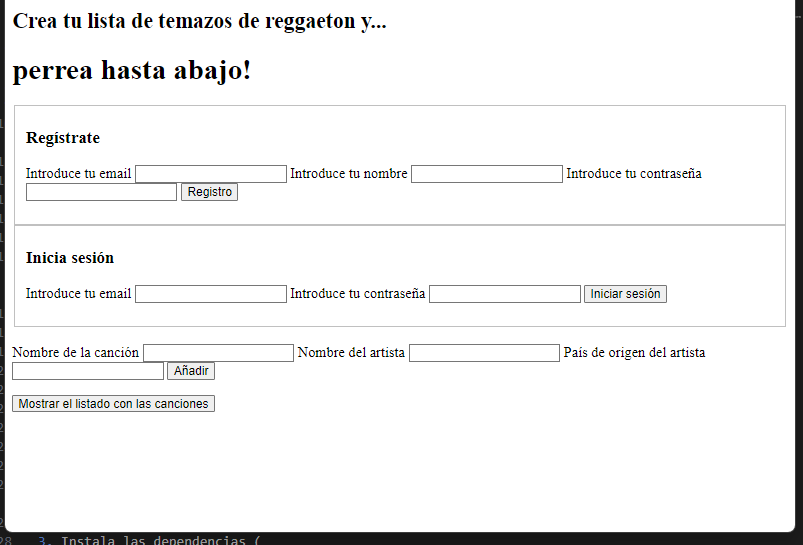
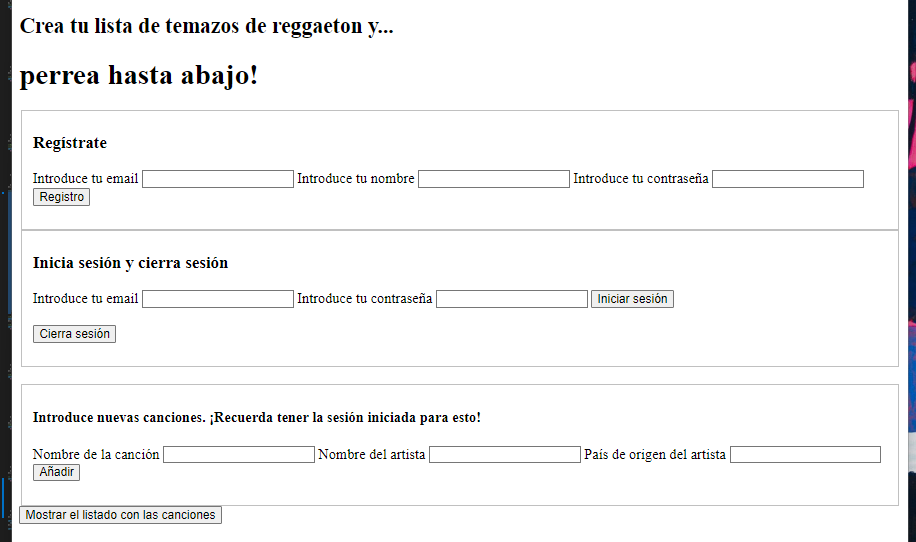
add localStorage and logout

Changed region(s): [[0.0, 0.0, 1.0, 1.0], [0.6227, 0.8266, 0.8095, 0.8561], [0.3425, 0.8266, 0.467, 0.8561]]

diff --git a/public/index.html b/public/index.html
@@ -14,49 +14,107 @@
         <h3>Regístrate</h3>
         <form action="">
           <label for="email">Introduce tu email</label>
-          <input class="js-input-signup-email" type="text" name="email" id="email" />
+          <input
+            class="js-input-signup-email"
+            type="text"
+            name="email"
+            id="email"
+            required
+          />
 
           <label for="name">Introduce tu nombre</label>
-          <input class="js-input-signup-name" type="text" name="name" id="name" />
+          <input
+            class="js-input-signup-name"
+            type="text"
+            name="name"
+            id="name"
+            required
+          />
 
           <label for="pass">Introduce tu contraseña</label>
-          <input class="js-input-signup-pass" type="password" name="pass" id="pass" />
+          <input
+            class="js-input-signup-pass"
+            type="password"
+            name="pass"
+            id="pass"
+            required
+          />
 
-          <input class="js-btn-signup" type="submit" value="Registro">
+          <input class="js-btn-signup" type="submit" value="Registro" />
         </form>
         <p class="js-res-sign"></p>
       </fieldset>
     </section>
     <section>
       <fieldset>
-        <h3>Inicia sesión</h3>
+        <h3>Inicia sesión y cierra sesión</h3>
         <form action="">
           <label for="emaillogin">Introduce tu email</label>
-          <input class="js-input-login-email" type="text" name="emaillogin" id="emaillogin" />
+          <input
+            class="js-input-login-email"
+            type="text"
+            name="emaillogin"
+            id="emaillogin"
+            required
+          />
 
           <label for="passlogin">Introduce tu contraseña</label>
-          <input class="js-input-login-pass" type="passwordlogin" name="passlogin" id="passlogin" />
+          <input
+            class="js-input-login-pass"
+            type="password"
+            name="passlogin"
+            id="passlogin"
+            required
+          />
 
-          <input class="js-btn-login" type="submit" value="Iniciar sesión">
+          <input class="js-btn-login" type="submit" value="Iniciar sesión" />
         </form>
+        <br>
+        <button class="js-btn-logout" >Cierra sesión</button>
         <p class="js-res-login"></p>
+        <p class="js-res-logout"></p>
       </fieldset>
     </section>
     <br />
-    <form action="">
-      <label for="song">Nombre de la canción</label>
-      <input class="js-input-song" type="text" name="song" id="song" />
 
-      <label for="artist">Nombre del artista</label>
-      <input class="js-input-artist" type="text" name="artist" id="artist" />
 
-      <label for="country">País de origen del artista</label>
-      <input class="js-input-country" type="text" name="country" id="country" />
 
-      <input class="js-btn-add" type="submit" value="Añadir" />
-    </form>
-    <p class="js-res-add"></p>
+    <fieldset>
+      <h4>
+        Introduce nuevas canciones. ¡Recuerda tener la sesión iniciada para
+        esto!
+      </h4>
+      <form action="">
+        <label for="song">Nombre de la canción</label>
+        <input
+          class="js-input-song"
+          type="text"
+          name="song"
+          id="song"
+          required
+        />
 
+        <label for="artist">Nombre del artista</label>
+        <input
+          class="js-input-artist"
+          type="text"
+          name="artist"
+          id="artist"
+          required
+        />
+
+        <label for="country">País de origen del artista</label>
+        <input
+          class="js-input-country"
+          type="text"
+          name="country"
+          id="country"
+        />
+
+        <input class="js-btn-add" type="submit" value="Añadir" />
+      </form>
+      <p class="js-res-add"></p>
+    </fieldset>
     <button class="btn-show-all">Mostrar el listado con las canciones</button>
     <div class="js-items"></div>
 

diff --git a/public/js/main.js b/public/js/main.js
@@ -16,6 +16,8 @@ const emailLogin = document.querySelector(".js-input-login-email");
 const passLogin = document.querySelector(".js-input-login-pass");
 const btnLogin = document.querySelector(".js-btn-login");
 const confLogin = document.querySelector(".js-res-login");
+const btnLogout = document.querySelector(".js-btn-logout");
+const confLogout = document.querySelector(".js-res-logout");
 
 let token = "";
 //registro y login
@@ -71,9 +73,11 @@ const handleLogin = (ev) => {
       if (data.success) {
         confLogin.innerHTML = "Bienvenida de nuevo <3";
         token = data.token;
+        localStorage.setItem("token", token);
         emailLogin.value = "";
         passLogin.value = "";
-        console.log(token);
+     //   console.log(token);
+        confLogout.innerHTML = data.message;
       } else {
         confSign.innerHTML = data.message;
       }
@@ -125,19 +129,48 @@ const handleAdd = (ev) => {
     method: "POST",
     headers: {
       "Content-Type": "application/json",
+      Authorization: "Bearer " + localStorage.getItem("token"),
     },
     body: JSON.stringify(bodyParams),
   })
     .then((response) => response.json())
     .then((data) => {
-      confirmation.innerHTML = data.message;
+      
+      console.log(data.message)
       if (data.success) {
+        confirmation.innerHTML = data.message;
         fetchGetList();
         inputSong.value = "";
         inputArtist.value = "";
         inputCountry.value = "";
+      }else{
+        confirmation.innerHTML = "Ups, algo ha ido mal...";
       }
     });
 };
 
 btnAdd.addEventListener("click", handleAdd);
+
+
+const handleLogout = (ev) =>{
+    ev.preventDefault();
+
+    fetch("http://localhost:3002/user/logout", {
+        method: "PUT",
+        headers: {
+          "Content-Type": "application/json",
+          Authorization: "Bearer " + localStorage.getItem("token"),
+        },
+      })
+        .then((response) => response.json())
+        .then((data) => {
+            confLogin.innerHTML = "";
+          confLogout.innerHTML = data.message;
+          if (data.success) {
+            localStorage.removeItem("token"); // Eliminar el token del almacenamiento local
+            token = ""; // Limpiar la variable token
+          }
+        });
+    };
+
+btnLogout.addEventListener("click", handleLogout);

diff --git a/src/index.js b/src/index.js
@@ -40,10 +40,12 @@ const authorize = (req, res, next) => {
       const token = tokenString.split(" ")[1];
       const verifiedToken = jwt.verify(token, process.env.JWT_WORD);
       req.userInfo = verifiedToken;
+      next();
     } catch (error) {
-      res.status(400).json({ success: false, message: error });
+      res.status(400).json({ success: false, message: "error" });
+      console.log(error)
     }
-    next();
+
   }
 };
 //1. Sign-up
@@ -133,7 +135,7 @@ server.get("/list", async (req, res) => {
 });
 
 //2. insert:
-server.post("/add", async (req, res) => {
+server.post("/add", authorize, async (req, res) => {
   try {
     const conn = await connectDB();
     const { songName, name, country } = req.body;
@@ -279,20 +281,25 @@ server.get("/:id", async (req, res) => {
 });
 
 // //BONUS - logout
-// server.put("/user/logout", function (req, res) {
-//   try {
-//     const tokenString = req.headers.authorization;
-//     jwt.sign(tokenString, "", { expiresIn: 1 }, (logout, err) => {
-//       if (logout) {
-//         res.send({ msg: "Has sido desconectado" });
-//       } else {
-//         res.send({ msg: "Error" });
-//       }
-//     });
-//   } catch (error) {
-//     res.status(400).json(error);
-//   }
-// });
+server.put("/user/logout", function (req, res) {
+  try {
+    const tokenString = req.headers.authorization;
+    jwt.sign(tokenString, "", { expiresIn: 1 }, (logout, err) => {
+      if (logout) {
+        res.status(200).json({
+            success: true,
+            message: "Has sido desconectada" });
+      } else {
+        res.status(400).json({
+            success: false,
+            message: "Error al cerrar sesión",
+          });
+      }
+    });
+  } catch (error) {
+    res.status(400).json(error);
+  }
+});
 
 server.listen(PORT, () => {
   console.log(`Server running at http://localhost:${PORT}`);

diff --git a/readme.md b/readme.md
@@ -41,6 +41,7 @@ y nodemon si lo necesitas)
 Gracias al servidor estático almacenado en ./public, tenemos un frontend que facilita algunas de las interacciones del usuario con la API: 
 - registo de usuarios, 
 - inicio de sesión,
+- cierre de sesión,
 - agregar canciones
 - pintar la lista de canciones
 
@@ -49,6 +50,7 @@ Gracias al servidor estático almacenado en ./public, tenemos un frontend que fa
 Para el resto de interaciones, te dejo en buenas manos con Postman :)
 
 Una última cosa... hay algunos endpoints que son rutas protegidas así que recuerda "tener la sesión iniciada" y el token a mano si quieres: 
+- añadir
 - eliminar canciones
 - actualizar canciones (introducir su álbum)
 
@@ -71,7 +73,7 @@ Parámetros de entrada:
 "password": "contraseña"
 }
 
-### (EN CONSTRUCCIÓN) Cierre de Sesión
+### Cierre de Sesión
 Cierra la sesión actual del usuario con PUT /user/logout
 (recuerda poner el token del usuario en los headers!)
 
@@ -90,7 +92,7 @@ Parámetros de entrada:
 ### Elimina una canción por su ID con DELETE /delete/:id
 (No olvides pasar el id en la url!)
 
-### Actualiza los datos de una canción por su ID con PUT /update/:id
+### Actualiza el nombre de una canción y añade su álbum por su ID con PUT /update/:id
 Parámetros de entrada:
 {
 "song": "Nuevo Nombre de la Canción",
